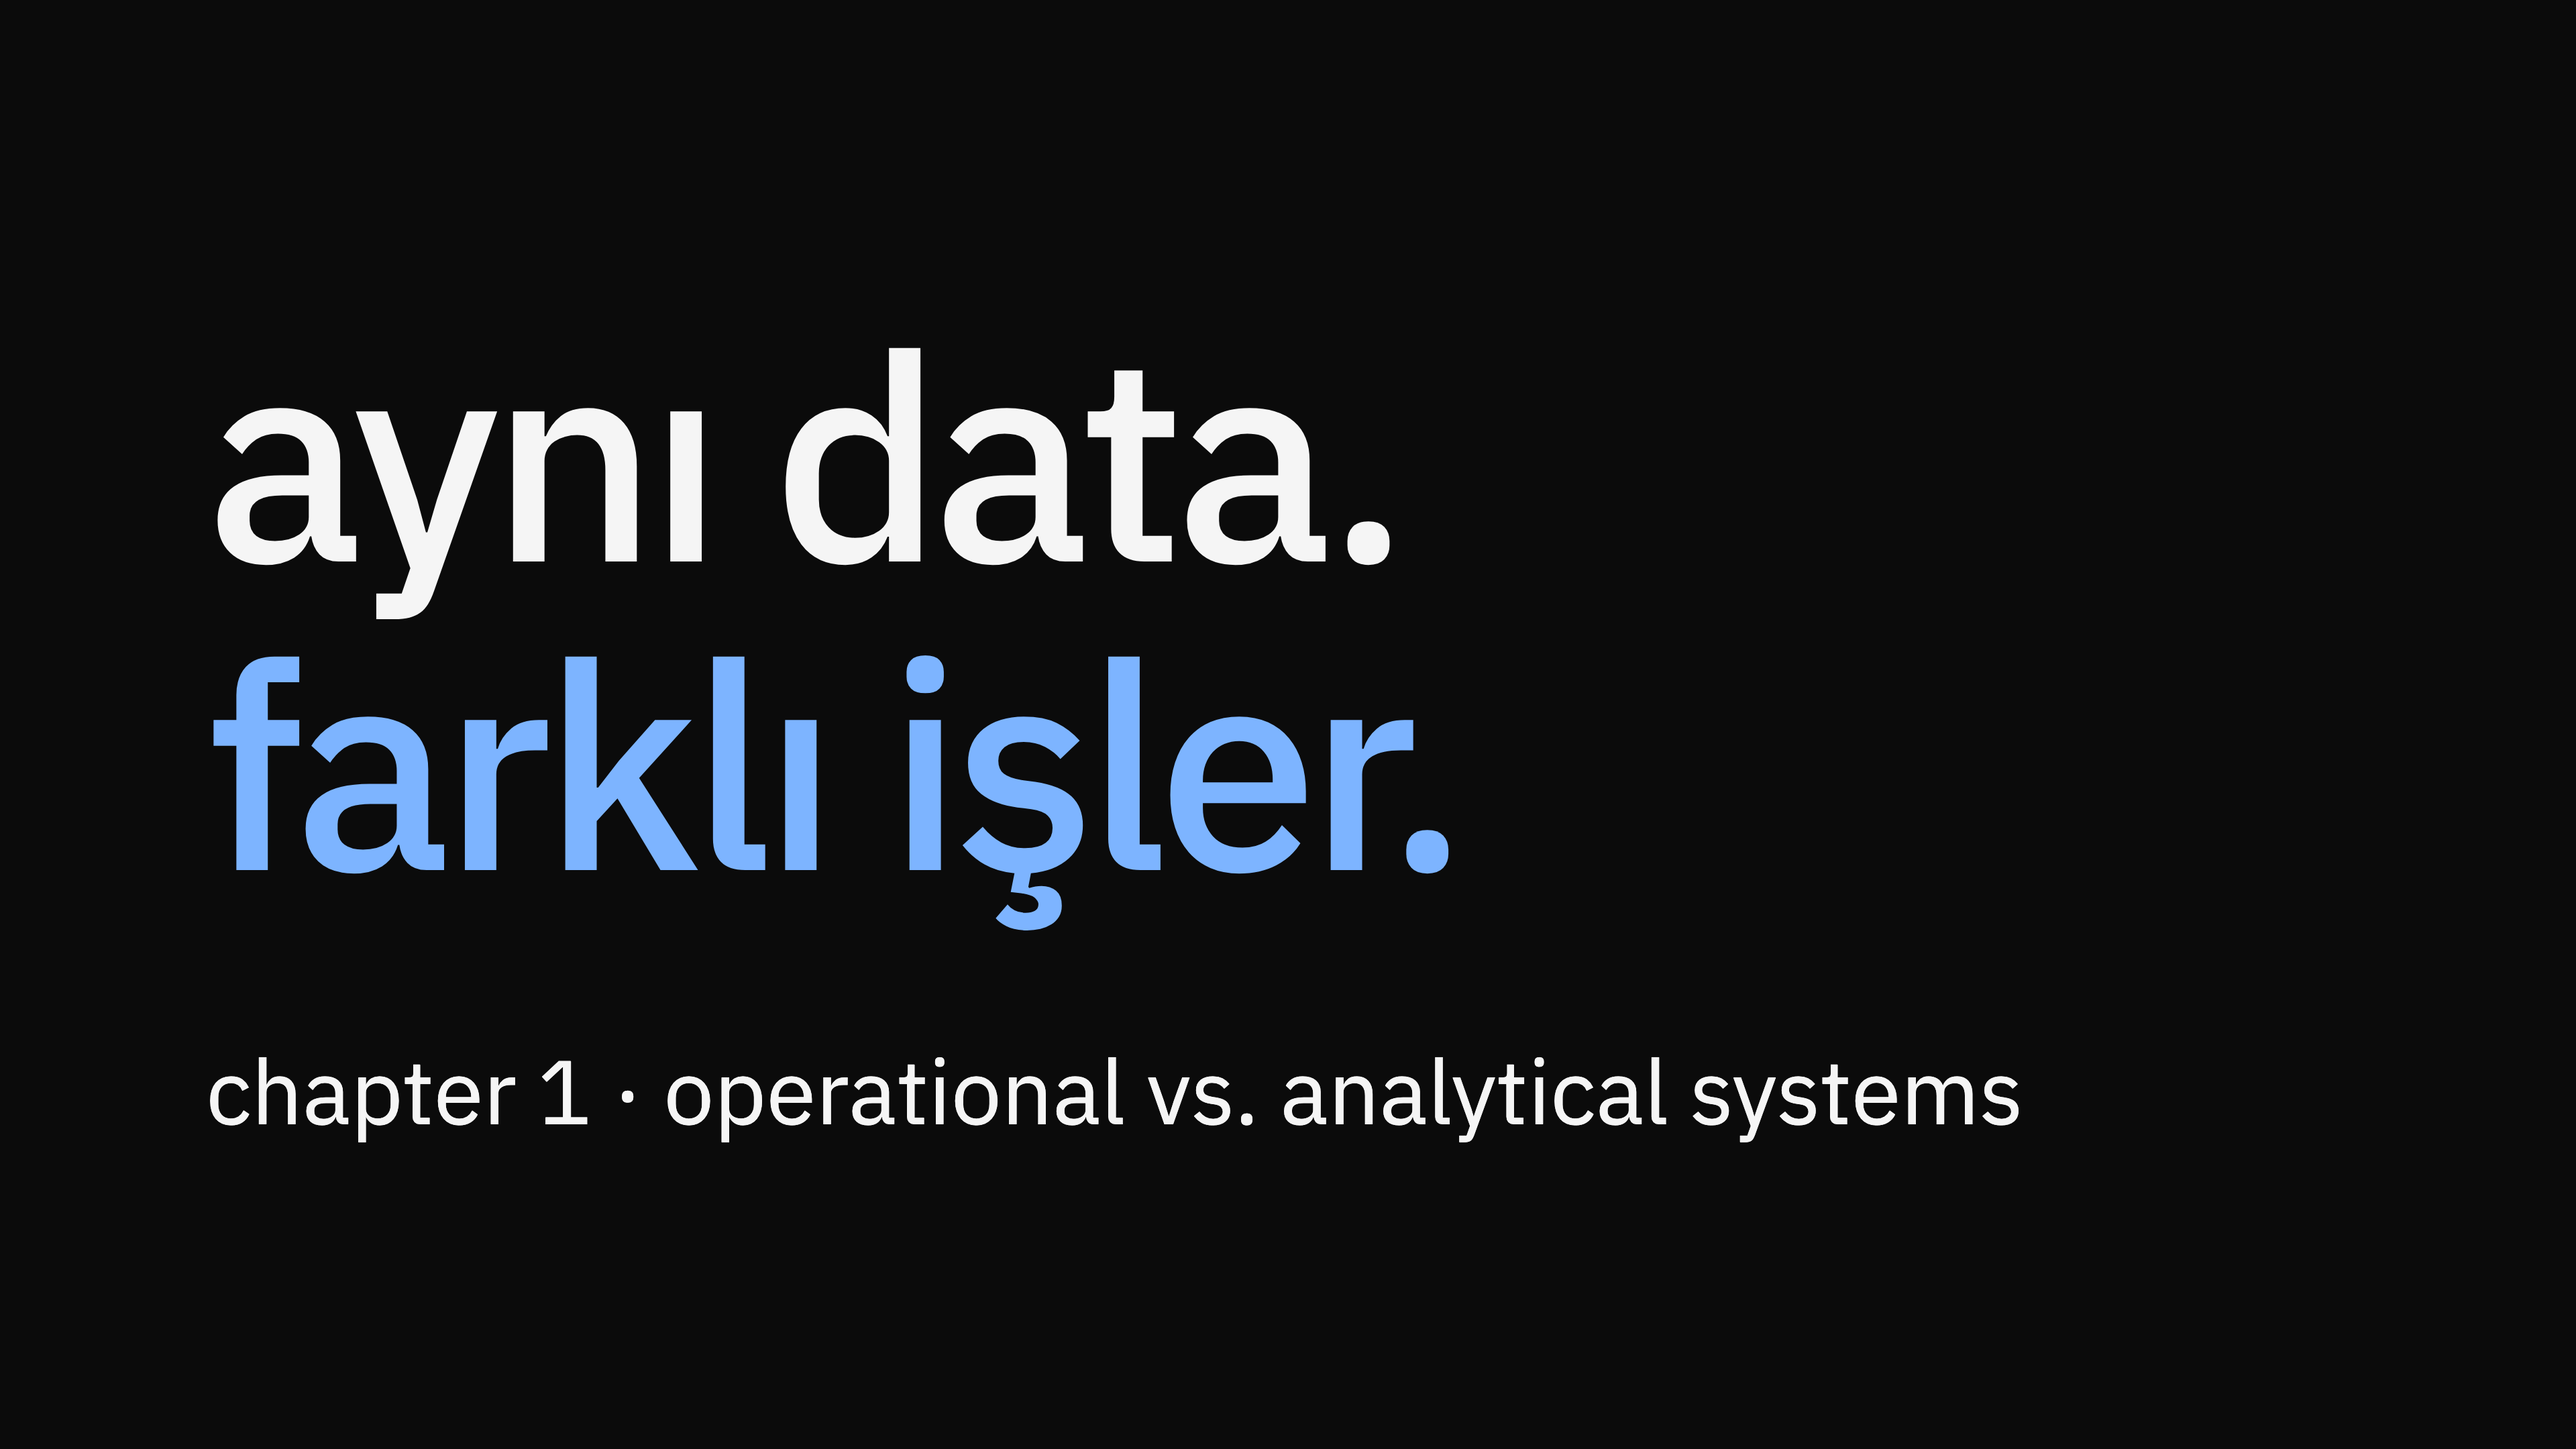
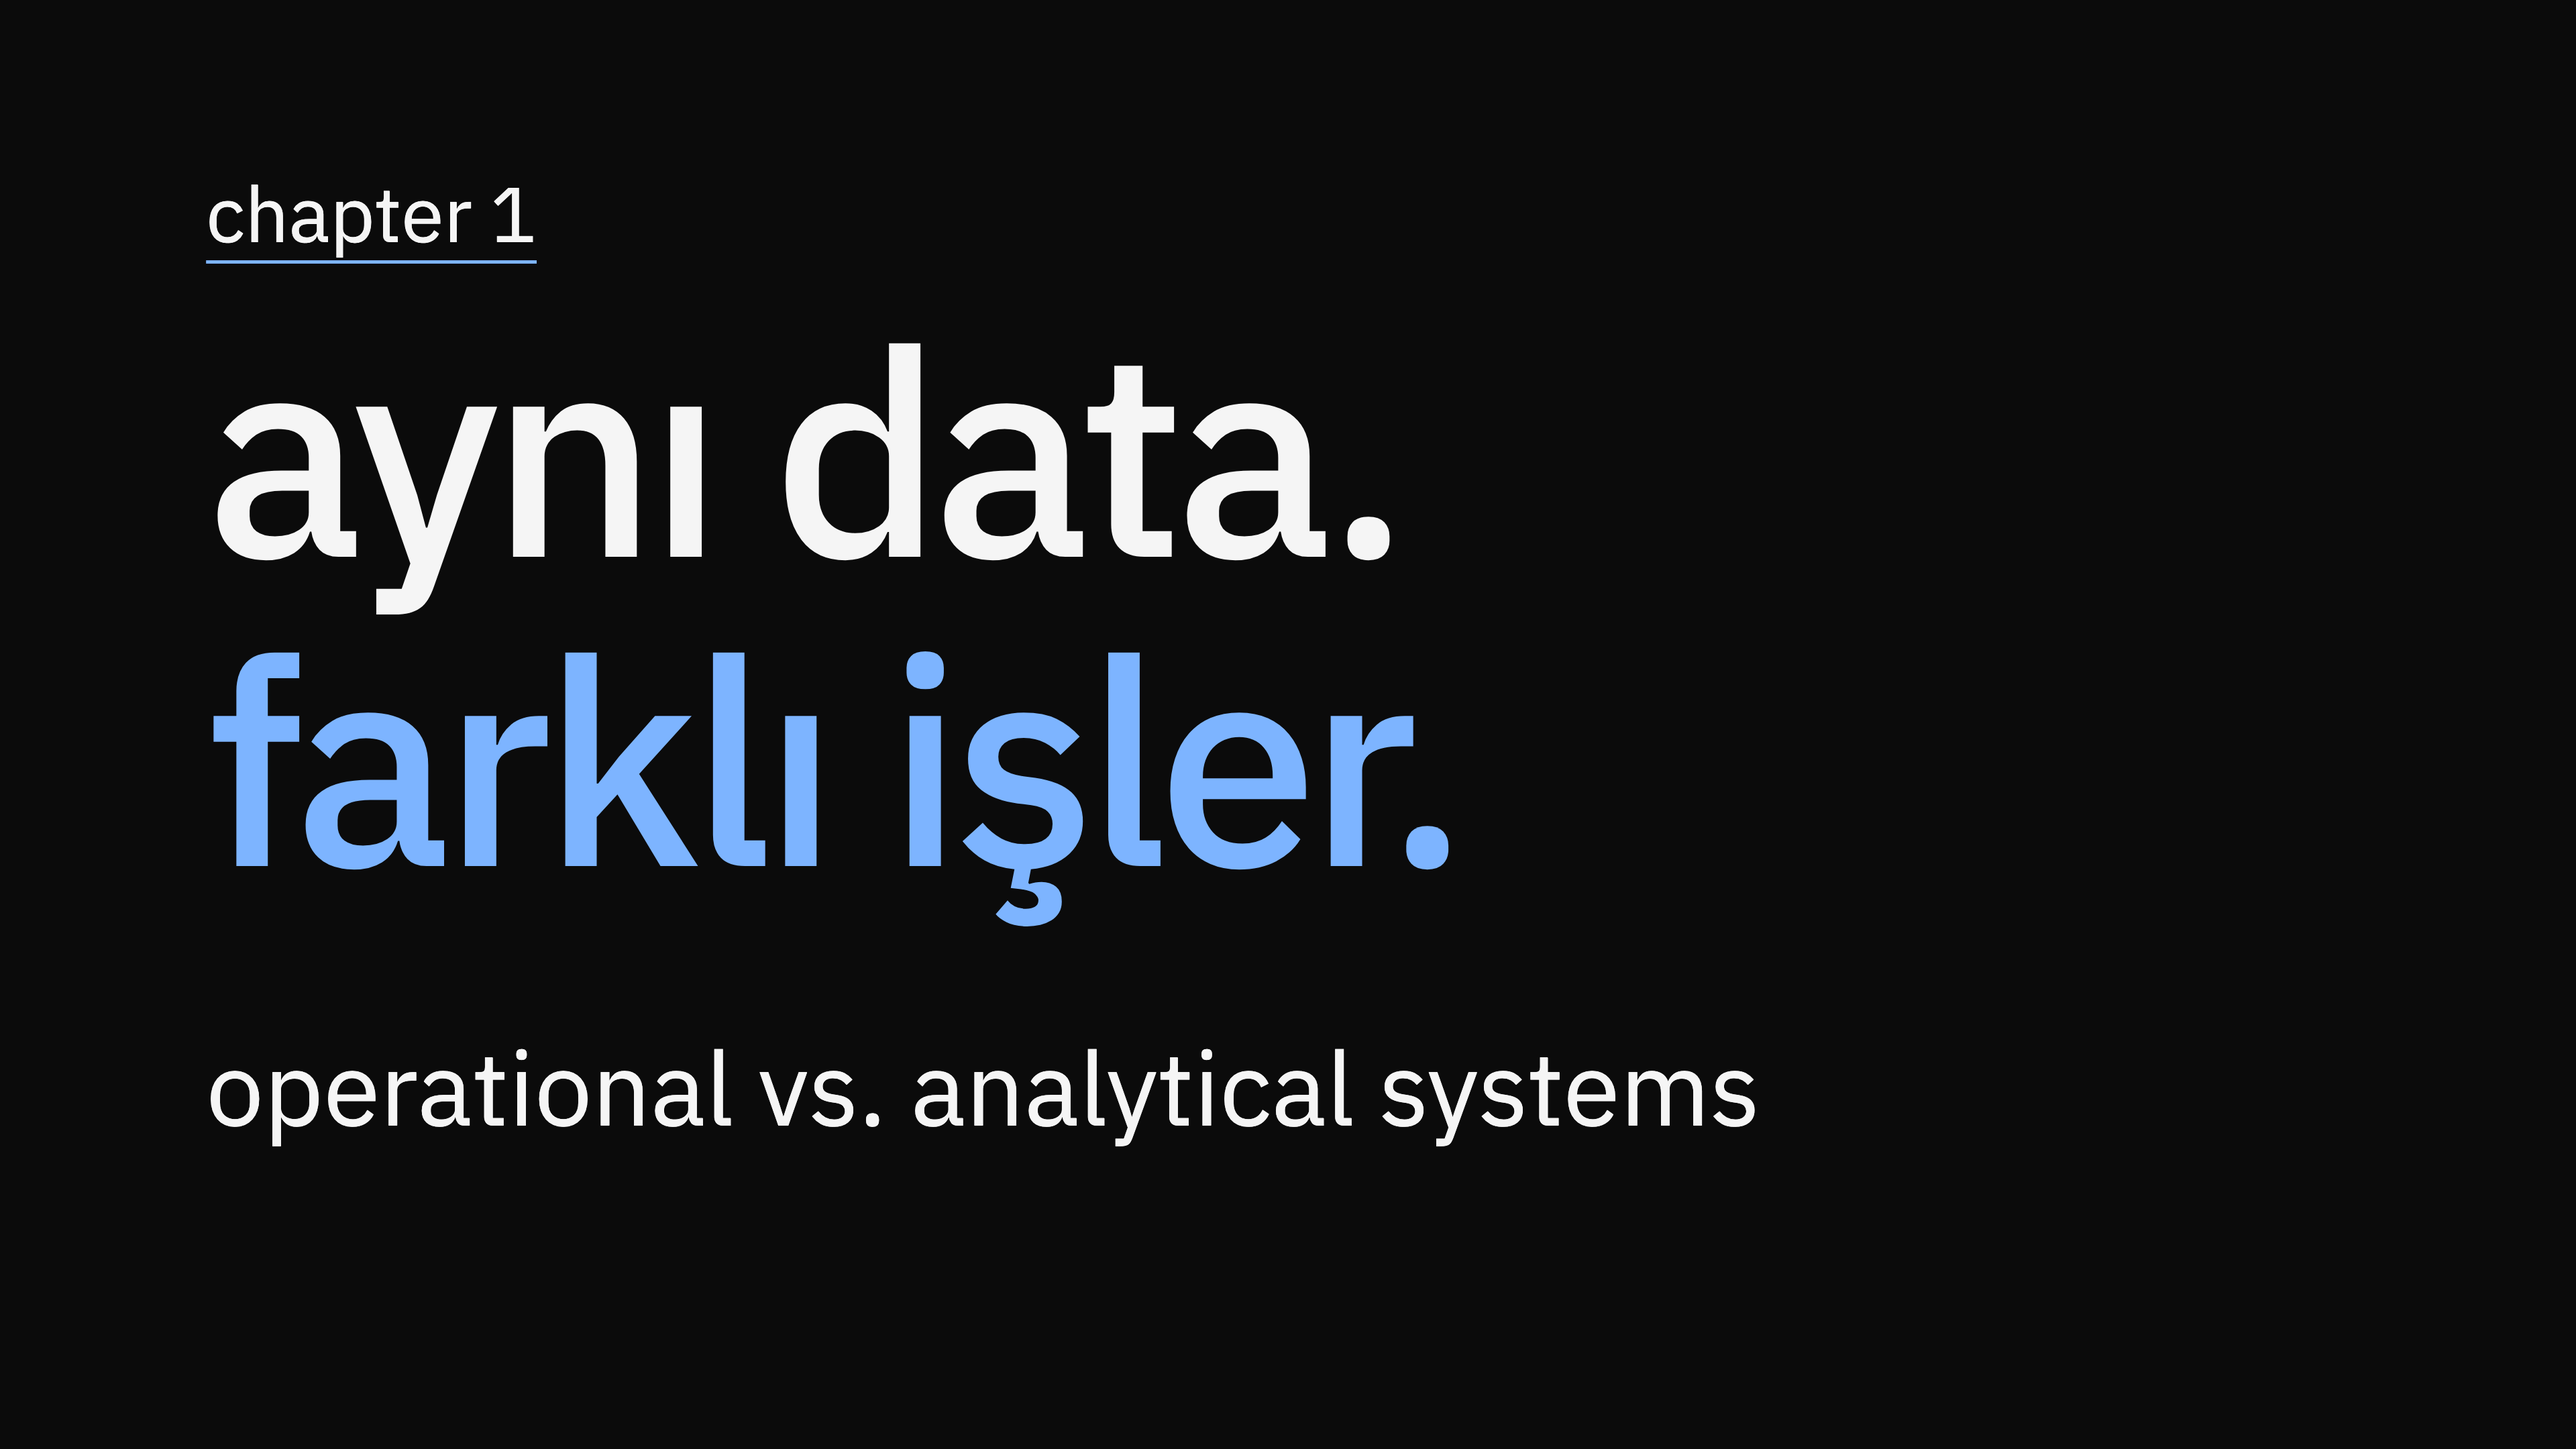
design: separate the thumbnail chapter label and topic

diff --git a/ddia/01/operational-vs-analytical-systems/thumbnail/thumbnail.html b/ddia/01/operational-vs-analytical-systems/thumbnail/thumbnail.html
@@ -19,17 +19,33 @@
         font-family: 'IBM Plex Sans', sans-serif;
         font-weight: 400;
       }
-      .composition { width: 100%; display: flex; flex-direction: column; gap: 4.5vw; }
+      .composition { width: 100%; display: flex; flex-direction: column; gap: 4.2vw; }
+      .chapter { position: relative; }
+      .chapter-label {
+        position: absolute;
+        left: 0;
+        bottom: calc(100% + 1.2vw);
+        margin: 0;
+        font-size: 3vw;
+        line-height: 1.3;
+        text-decoration: underline solid var(--chapter-accent);
+        text-decoration-thickness: .14vw;
+        text-underline-offset: .7vw;
+        text-decoration-skip-ink: none;
+      }
       .hero { margin: 0; font-size: 11.2vw; font-weight: 500; line-height: 1.07; letter-spacing: -.035em; }
       .accent { color: var(--chapter-accent); }
-      .byline { margin: 0; font-size: 3.5vw; line-height: 1.3; }
+      .byline { margin: 0; font-size: 4vw; line-height: 1.3; }
     </style>
   </head>
   <body>
     <main class="thumbnail">
       <div class="composition">
-        <h1 class="hero">aynı data.<br><span class="accent">farklı işler.</span></h1>
-        <p class="byline">chapter 1 · operational vs. analytical systems</p>
+        <div class="chapter">
+          <p class="chapter-label">chapter 1</p>
+          <h1 class="hero">aynı data.<br><span class="accent">farklı işler.</span></h1>
+        </div>
+        <p class="byline">operational vs. analytical systems</p>
       </div>
     </main>
     <script>
